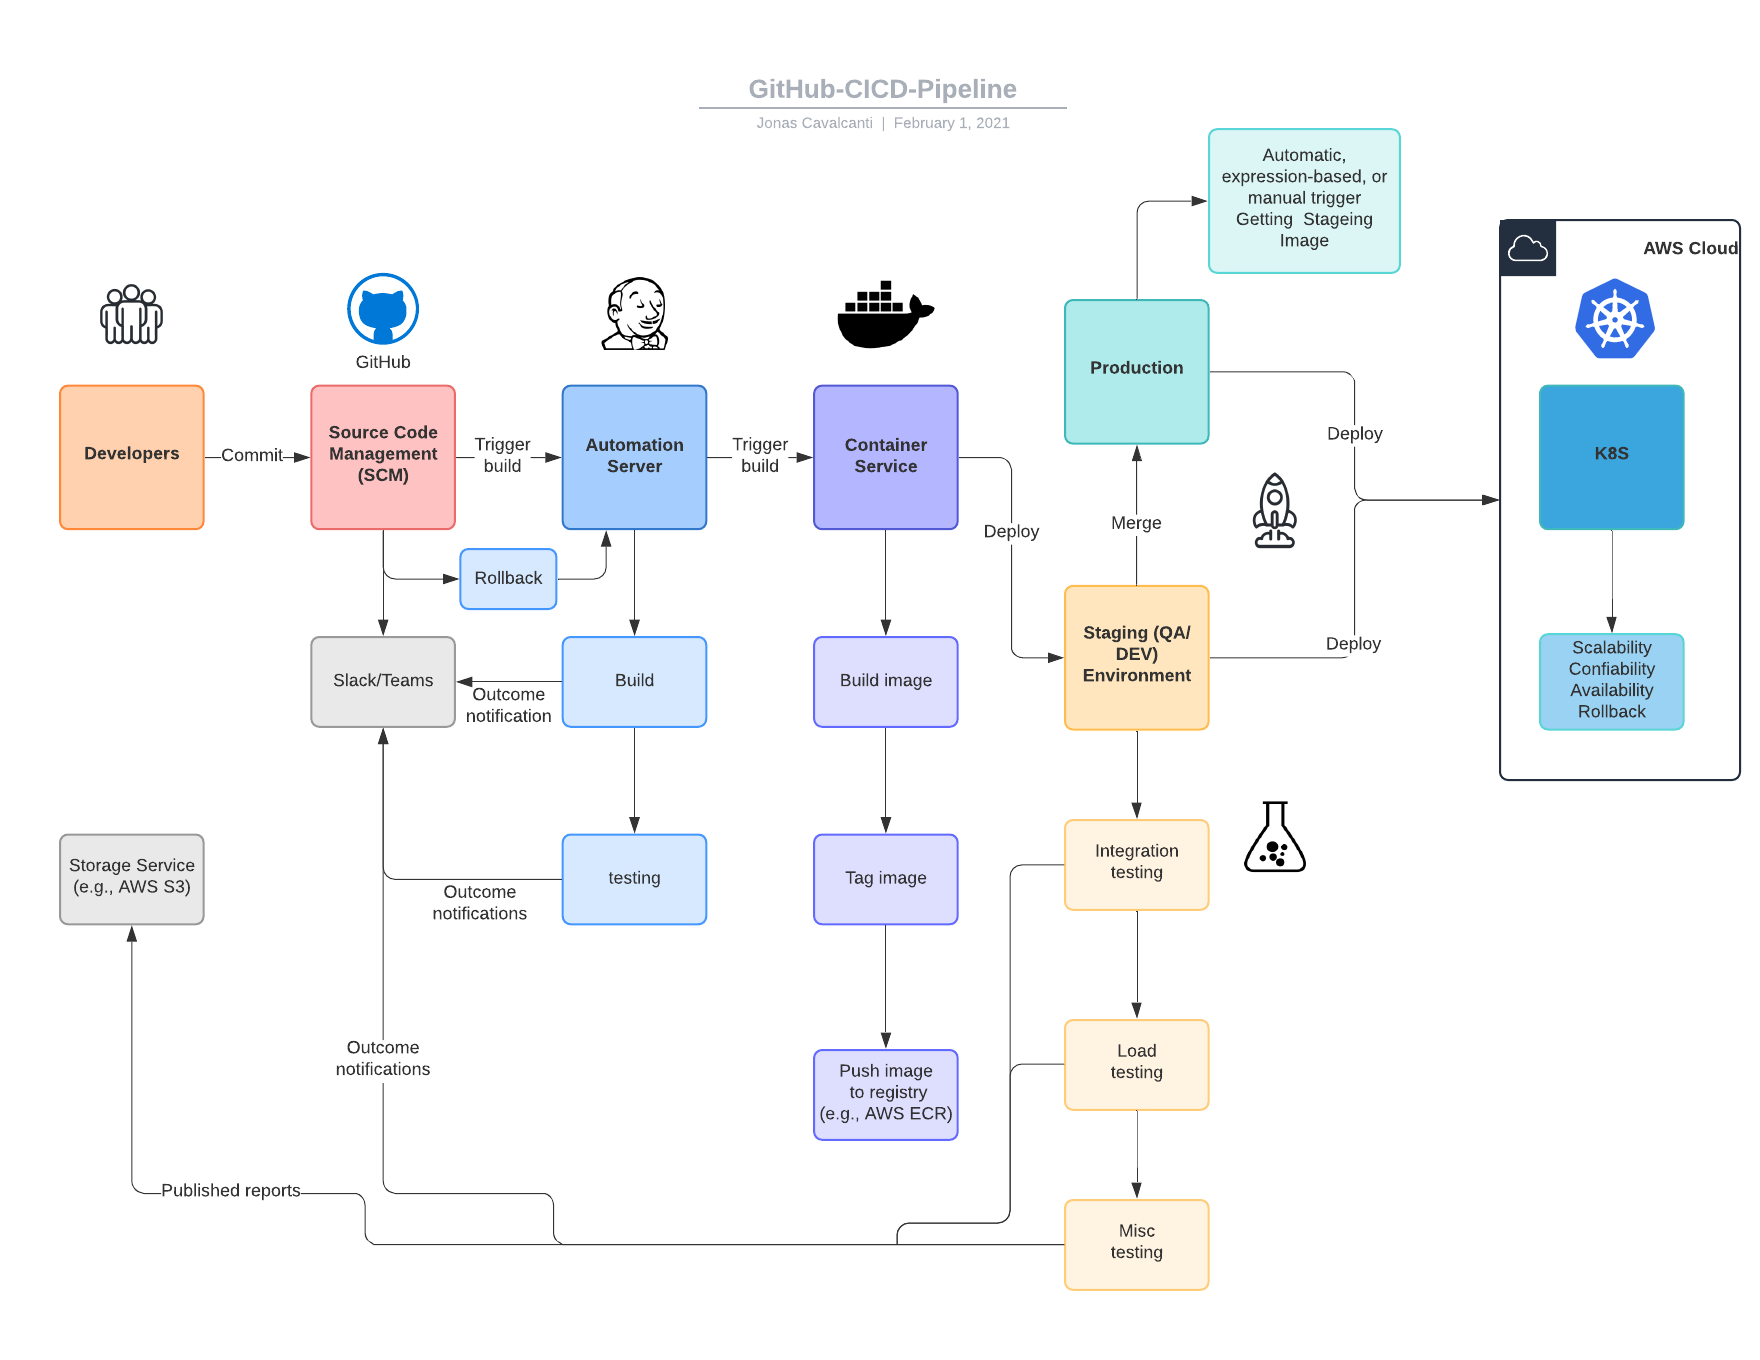
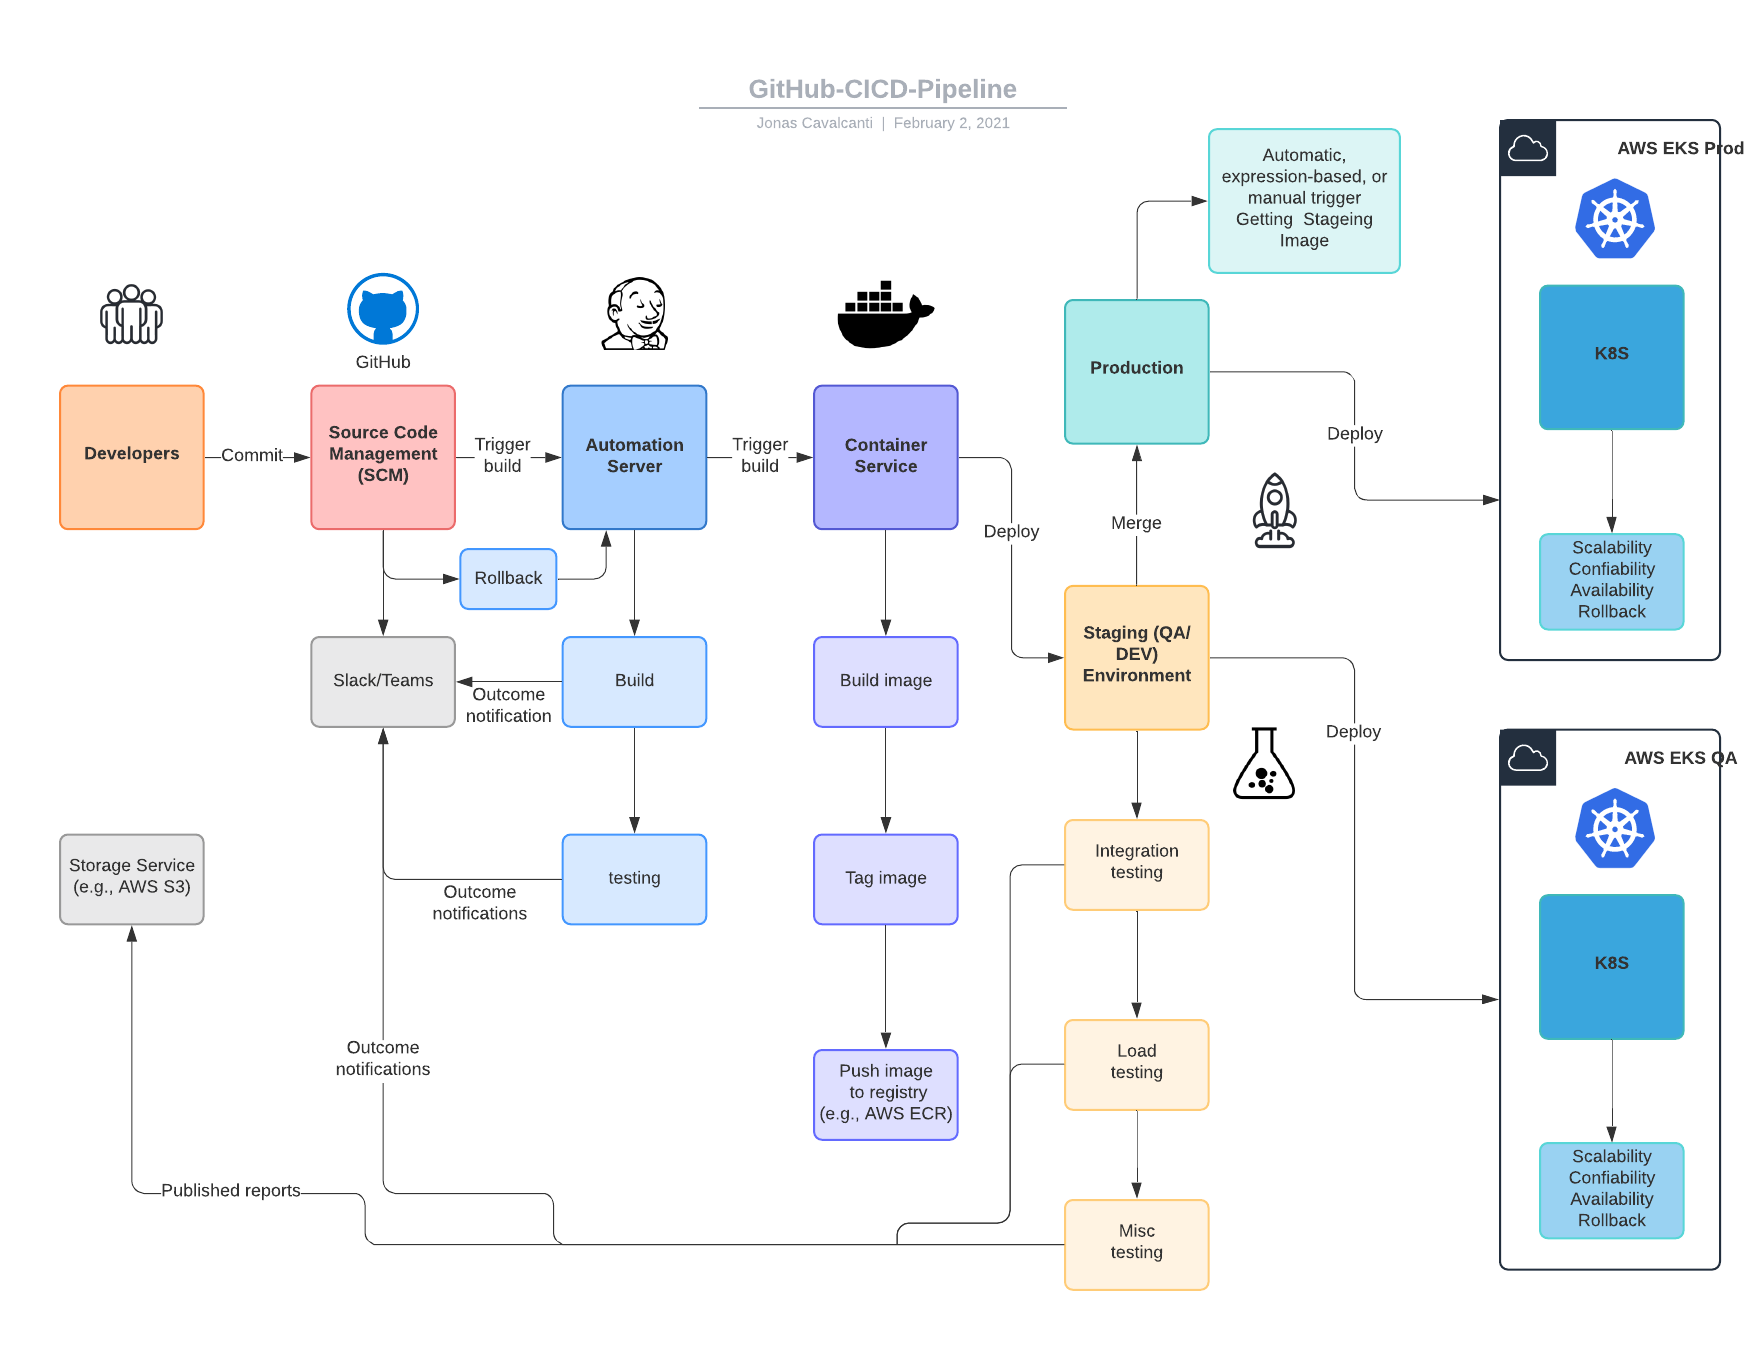
Updated docs

diff --git a/docs/gitlab/README.md b/docs/gitlab/README.md
@@ -22,86 +22,58 @@ Generate feedback on what actually happens with the software.
 
 The sharing of organizational information helps in the decentralization of knowledge in people of the teams, preventing the processes from becoming dependent.
 
-Solutions used and planned for implementation
+Solutions implemented or (not implementation in this lab but I use)
 
-**SCM**
+**SCM**: GitLab (implemented)
 
-Gitlab (Used)
+**Build**: Docker (implemented)
 
-Github (Used)
+**Tests**: Sonarqube (Code tests) (not implementation in this lab but I use) | Nexus (Libs Repository and Docker Registry) (not implementation in this lab but I use)
 
-**Build**
+**Pipeline**: GitLab CI (implemented)
 
-Docker (Used)
+**Container Orchestration**: Kubernetes (implemented)
 
-**Tests**
+**Cloud**: AWS (implemented)
 
-Sonarqube (Code tests) (Implementation)
+**Observability**: Prometheus (CPU metrics x Memory X Disk collector)(not implementation in this lab but I use) | Grafana (CPU metrics UI x Memory X Disk)(not implementation in this lab but I use)| ELK (Logs Management of all containers in the environment)(not implementation in this lab but I use)
 
-Nexus (Libs Repository and Docker Registry) (Implementation)
-
-**Pipeline**
-
-Gitlab CI (Used)
-
-Jenkins (Used)
-
-**Container Orchestration**
-
-Kubernetes (Used)
-
-**Cloud**
-
-AWS (Used)
-
-**Observability**
-
-Prometheus (CPU metrics x Memory X Disk collector)
-
-Grafana (CPU metrics UI x Memory X Disk)
-
-ELK (Logs Management of all containers in the environment)
-
-
-**Providently from Infrastructure**
-
-Terraform (AWS Resource Generation) (Implementation)
+**Providently from Infrastructure**: Terraform (AWS Resource Generation) ((not implementation in this lab but I use))
 
 We will explain how CICD is carried out through Gihub. Gitlab will use the pipeline of the structure itself. Follows drawing bellow the flow:
 ### Architecture
 
-![GitLab Pipeline](https://github.com/jonascavalcantineto/apiSampleJava/blob/master/docs/gitlab/GitLab-CICD-Pipeline.png)
+![GitLab Pipeline](https://GitLab.com/jonascavalcantineto/apiSampleJava/blob/master/docs/gitlab/GitLab-CICD-Pipeline.png)
 
 **SCM (Source Code Manager)**
 
 The developer will follow a stream of branchs with the following names: hotfix, feature, qa, production and master
 
-**Hotfix:** Branch to resolve a system bug
+**Hotfix:**: Branch to resolve a system bug
 
-**Feature:** Branch for new feature implementations
+**Feature:**: Branch for new feature implementations
 
-**QA:** It will be the branch for testing and generating the system version. She does not need confirmation from someone responsible
+**QA:**: It will be the branch for testing and generating the system version. She does not need confirmation from someone responsible
 Production: Branch that will be responsible for generating the deployment in the production environment. In this phase, a QA version tag is made and deployed to a container orchestrator.
 
-**Master:** Branch for generating the realease version of the system in TAG format
+**Master:**: Branch for generating the realease version of the system in TAG 
 
-**Anatomy of Hotfix and Feature branches**
+**Format of Hotfix and Feature branches**
 
-hotfix / email> / task
-feature / email> / task
+hotfix/email/task-number
 
-**Gitlab - Realization of the pipeline through the .gitlab-ci.yaml file**
+feature/email/task-number
+
+**GitLab - Pipeline through the Jenkinsfile**
 
 The following stages will be held
 
-    - Build
+    - Build: System package construction
 
-    Construction of the container image
+    - Test: Conducting code tests
 
-    - Test
+    ** RollBack: Rollback in the GitLab Commits and deploy to Kubernetes
 
-    Conducting code tests
+    - Release Image: Building container image
 
-    - Deploy
-
-    Deploy in an orchestrated Kubernetes container (EKS)
+    - Deploy: Deploy to Kubernetes (EKS)

diff --git a/docs/github/README.md b/docs/github/README.md
@@ -22,47 +22,23 @@ Generate feedback on what actually happens with the software.
 
 The sharing of organizational information helps in the decentralization of knowledge in people of the teams, preventing the processes from becoming dependent.
 
-Solutions used and planned for implementation
+Solutions implemented or (not implementation in this lab but I use)
 
-**SCM**
+**SCM**: Github (implemented)
 
-Github (Used)
+**Build**: Docker (implemented)
 
-**Build**
+**Tests**: Sonarqube (Code tests) (not implementation in this lab but I use) | Nexus (Libs Repository and Docker Registry) (not implementation in this lab but I use)
 
-Docker (Used)
+**Pipeline**: Jenkins (implemented)
 
-**Tests**
+**Container Orchestration**: Kubernetes (implemented)
 
-Sonarqube (Code tests) (Implementation)
+**Cloud**: AWS (implemented)
 
-Nexus (Libs Repository and Docker Registry) (Implementation)
+**Observability**: Prometheus (CPU metrics x Memory X Disk collector)(not implementation in this lab but I use) | Grafana (CPU metrics UI x Memory X Disk)(not implementation in this lab but I use)| ELK (Logs Management of all containers in the environment)(not implementation in this lab but I use)
 
-**Pipeline**
-
-Gitlab CI (Used)
-
-Jenkins (Used)
-
-**Container Orchestration**
-
-Kubernetes (Used)
-
-**Cloud**
-
-AWS (Used)
-
-**Observability**
-
-Prometheus (CPU metrics x Memory X Disk collector)
-
-Grafana (CPU metrics UI x Memory X Disk)
-
-ELK (Logs Management of all containers in the environment)
-
-**Providently from Infrastructure**
-
-Terraform (AWS Resource Generation) (Implementation)
+**Providently from Infrastructure**: Terraform (AWS Resource Generation) ((not implementation in this lab but I use))
 
 We will explain how CICD is carried out through Gihub. Github will use the pipeline with Jenkins. Follows drawing bellow the flow:
 ### Architecture
@@ -73,37 +49,31 @@ We will explain how CICD is carried out through Gihub. Github will use the pipel
 
 The developer will follow a stream of branchs with the following names: hotfix, feature, qa, production and master
 
-**Hotfix:** Branch to resolve a system bug
+**Hotfix:**: Branch to resolve a system bug
 
-**Feature:** Branch for new feature implementations
+**Feature:**: Branch for new feature implementations
 
-**QA:** It will be the branch for testing and generating the system version. She does not need confirmation from someone responsible
+**QA:**: It will be the branch for testing and generating the system version. She does not need confirmation from someone responsible
 Production: Branch that will be responsible for generating the deployment in the production environment. In this phase, a QA version tag is made and deployed to a container orchestrator.
 
-**Master:** Branch for generating the realease version of the system in TAG format
+**Master:**: Branch for generating the realease version of the system in TAG 
 
-**Anatomy of Hotfix and Feature branches**
+**Format of Hotfix and Feature branches**
 
-hotfix / email / task
+hotfix/email/task-number
 
-feature / email / task
+feature/email/task-number
 
-**Github - Realization of the pipeline through the Jenkinsfile file**
+**Github - Pipeline through the Jenkinsfile**
 
 The following stages will be held
 
-    - Build
+    - Build: System package construction
 
-    System package construction
+    - Test: Conducting code tests
 
-    - Test
+    ** RollBack: Rollback in the Github Commits and deploy to Kubernetes
 
-     Conducting code tests
+    - Release Image: Building container image
 
-    - Release Image
-
-     Construction of the container system image
-
-    - Deploy
-
-     Deploy in an orchestrated Kubernetes container (EKS)
+    - Deploy: Deploy to Kubernetes (EKS)
